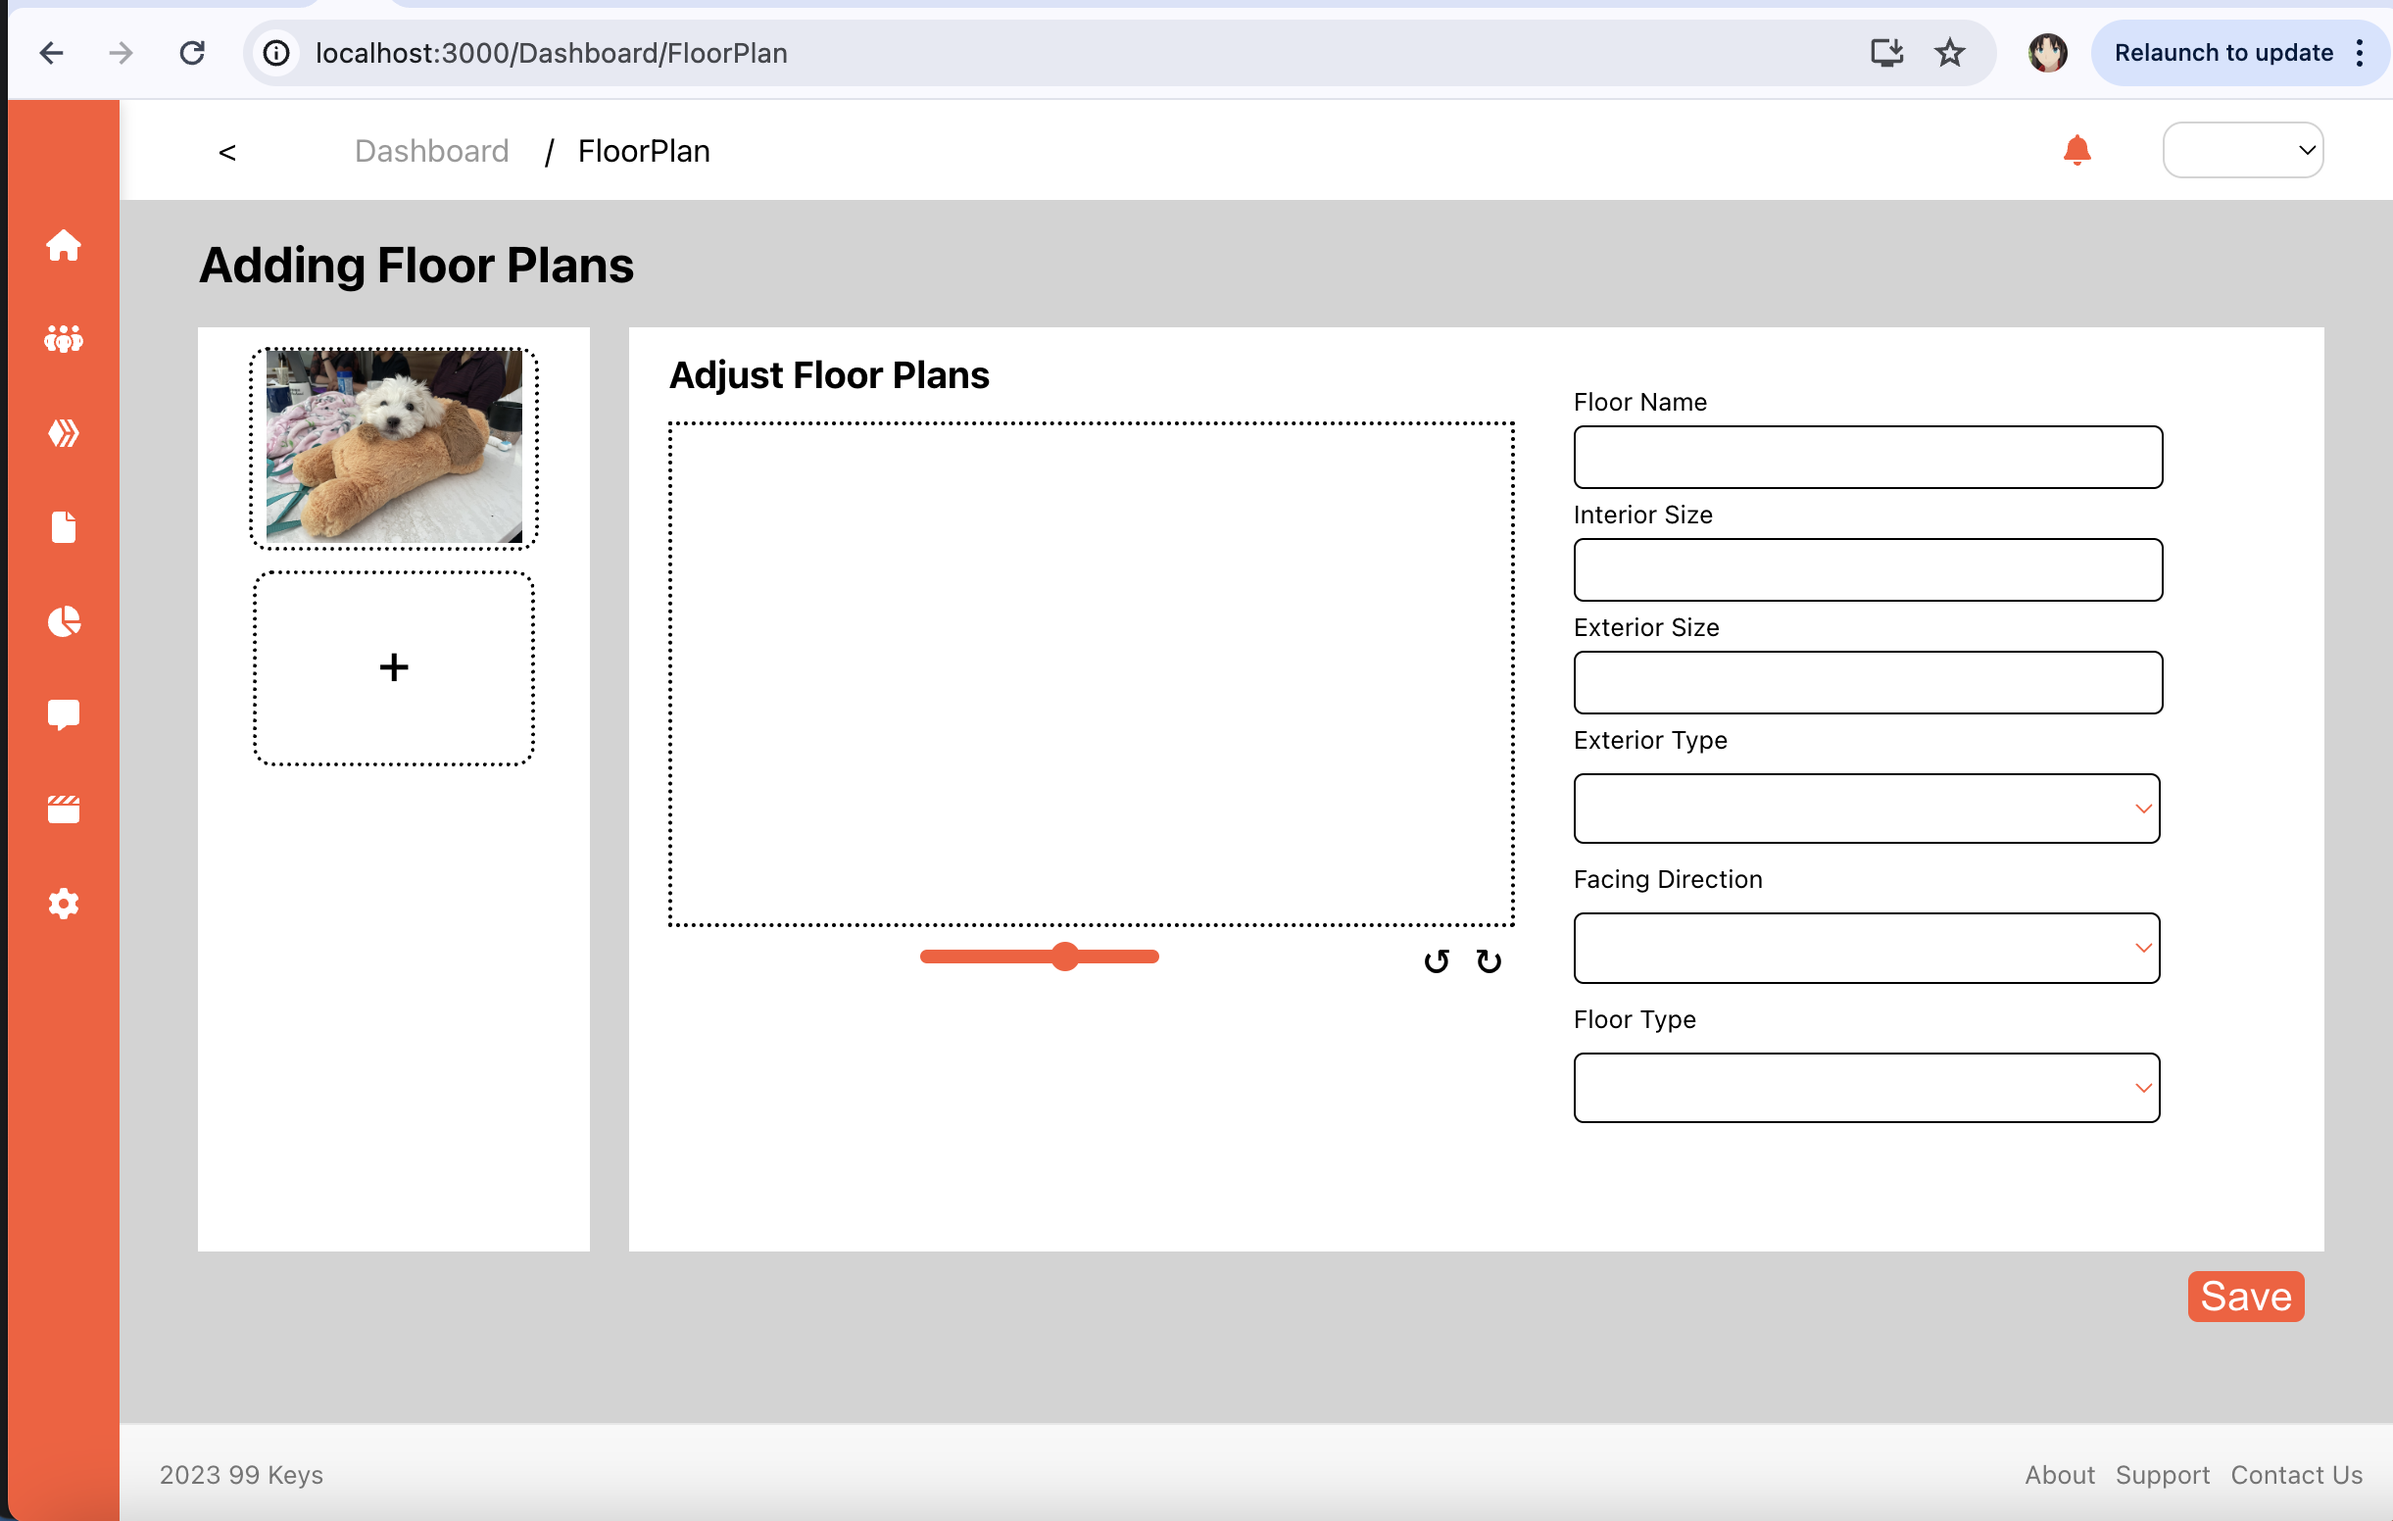
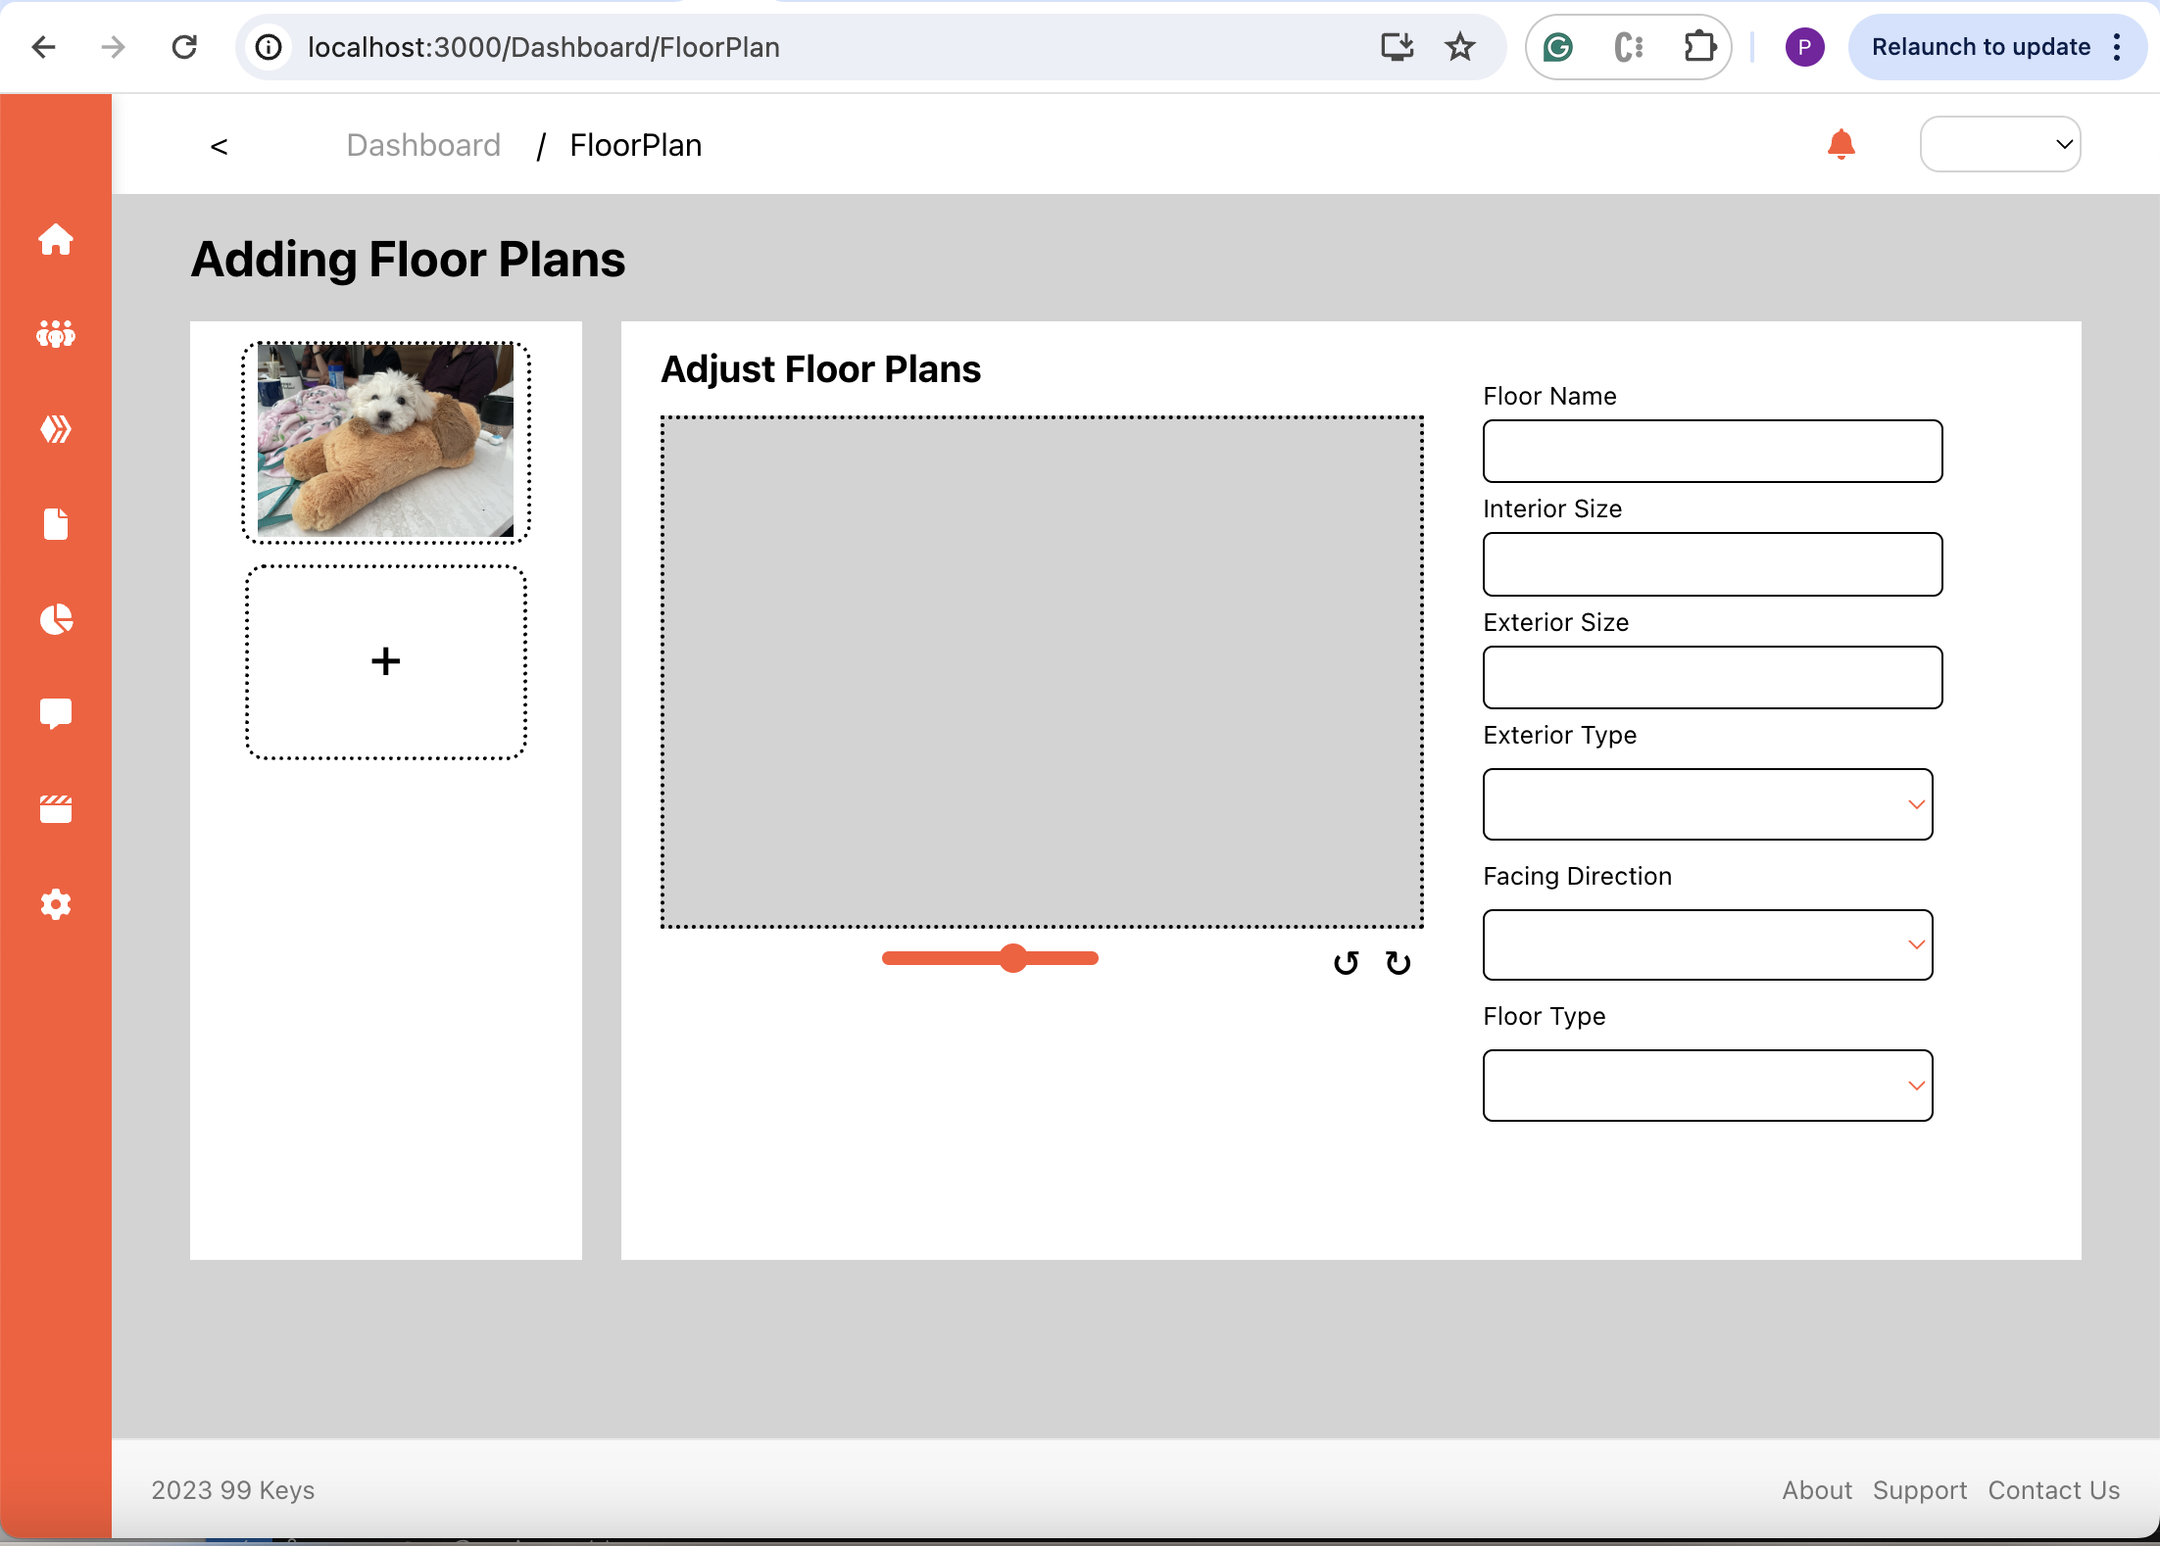
change safe zone background and screenshots

Changed region(s): [[0.0, 0.0, 1.0, 1.0], [0.7096, 0.7113, 0.8947, 0.7423]]

diff --git a/src/components/DB/FloorPlan.js b/src/components/DB/FloorPlan.js
@@ -59,7 +59,7 @@ function FloorPlan() {
             className='save-btn' 
             onClick={captureVisibleImage} 
             style={{
-              display: images.length === 0 ? 'none' : 'inline-block' 
+              display: displayedImage === "" ? 'none' : 'inline-block' 
           }}>
               Save
             </button>   

diff --git a/src/components/DB/FPcomponents/ImageDisplayer.css b/src/components/DB/FPcomponents/ImageDisplayer.css
@@ -25,6 +25,7 @@
     width: 35vw;
     height: 35vh;
     border: 2px dotted #000;
+    background-color: lightgray;
     justify-content: center;
     overflow: hidden;
 }
